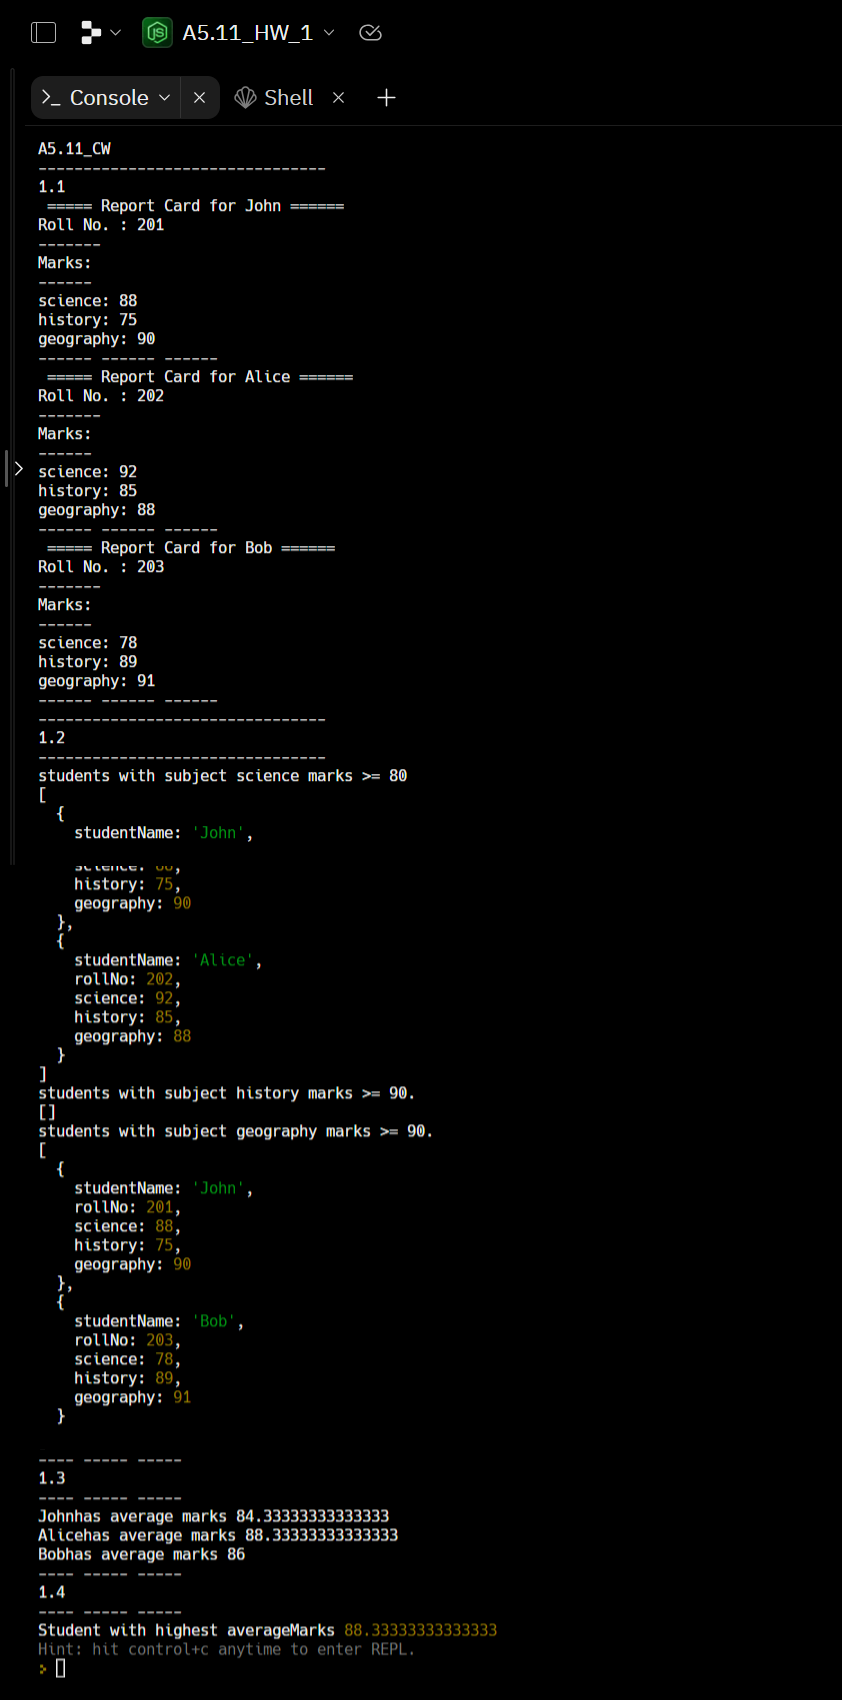
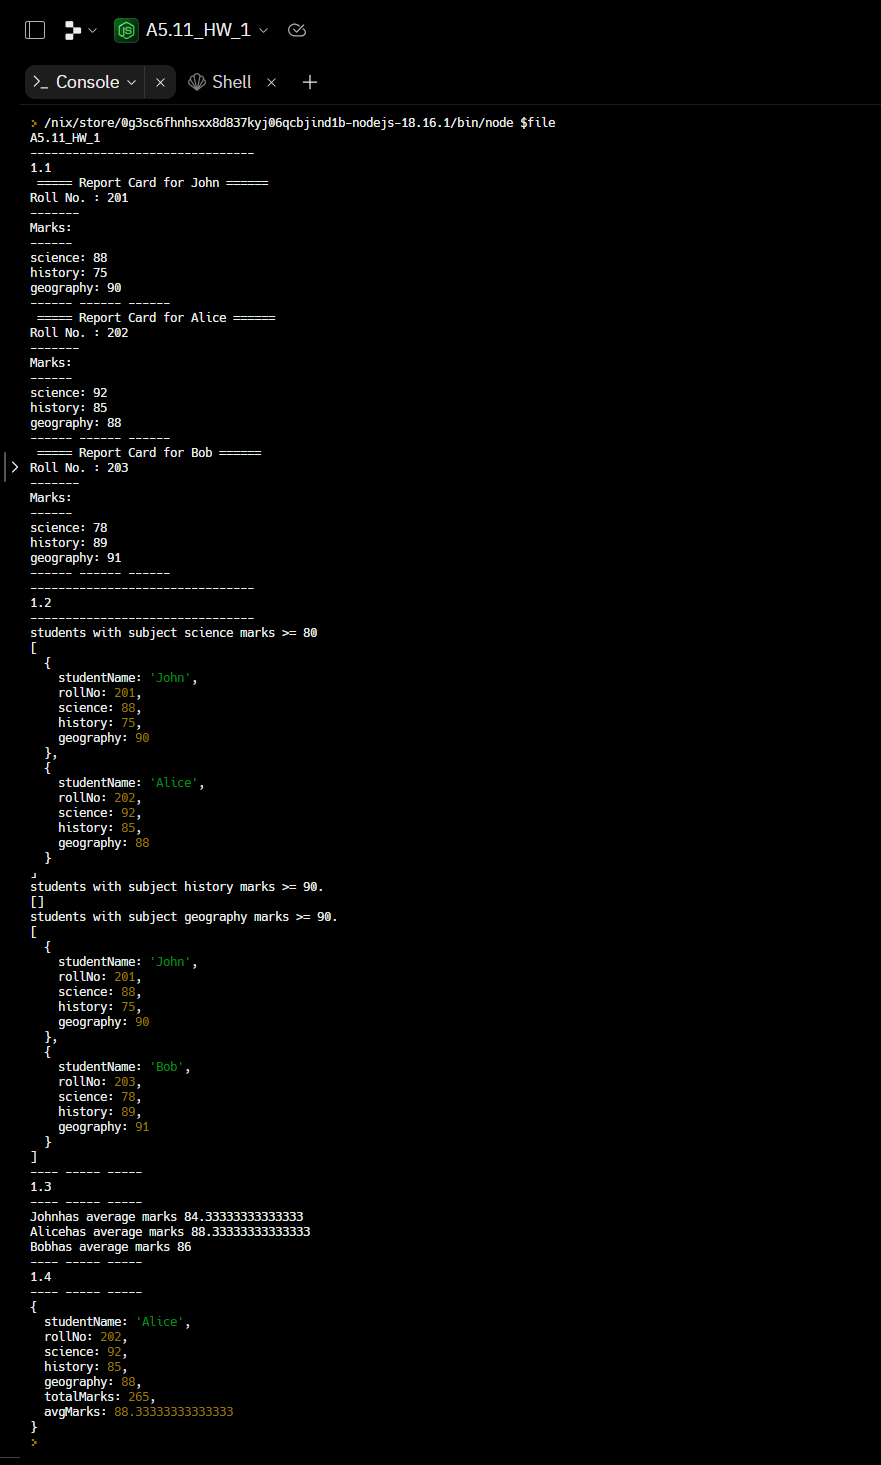
added 5.11_HW_2

diff --git a/04. Objects/Array , Object , Function/A5.11_HW_1.js b/04. Objects/Array , Object , Function/A5.11_HW_1.js
@@ -1,4 +1,4 @@
-console.log("A5.11_CW")
+console.log("A5.11_HW_1")
 console.log("--------------------------------")
 const studentData = [
   { studentName: "John", rollNo: 201, science: 88, history: 75, geography: 90 },
@@ -7,20 +7,20 @@ const studentData = [
 ];
 
 console.log("1.1 ")
-function printReportCard(rollNo){
+function printReportCard(rollNo) {
   let student = getReportByRollNo(rollNo)
   console.log(
-   " ===== Report Card for " + student.studentName + " ======\n" +
-"Roll No. : " + student.rollNo + "\n-------\nMarks:\n------\n" + 
-"science: " + student.science + "\n" +
-"history: " + student.history + "\n" + 
-"geography: " + student.geography + "\n------ ------ ------ "
+    " ===== Report Card for " + student.studentName + " ======\n" +
+    "Roll No. : " + student.rollNo + "\n-------\nMarks:\n------\n" +
+    "science: " + student.science + "\n" +
+    "history: " + student.history + "\n" +
+    "geography: " + student.geography + "\n------ ------ ------ "
   )
 }
 
-function getReportByRollNo(rollNo){
-  for(let i = 0; i < studentData.length; i++){
-    if(studentData[i].rollNo === rollNo ){
+function getReportByRollNo(rollNo) {
+  for (let i = 0; i < studentData.length; i++) {
+    if (studentData[i].rollNo === rollNo) {
       return studentData[i]
     }
   }
@@ -34,15 +34,15 @@ console.log("--------------------------------")
 console.log("1.2")
 console.log("--------------------------------")
 
-function getStudentsDataByCutoff(subjectName, cutOff){
+function getStudentsDataByCutoff(subjectName, cutOff) {
   let result = []
-  for(let i = 0; i < studentData.length; i++){
-    if(studentData[i][subjectName] >= cutOff){
+  for (let i = 0; i < studentData.length; i++) {
+    if (studentData[i][subjectName] >= cutOff) {
       result.push(studentData[i])
     }
   }
   return result
-  
+
 }
 console.log("students with subject science marks >= 80")
 console.log(getStudentsDataByCutoff("science", 80))
@@ -58,7 +58,7 @@ console.log("---- ----- ----- ")
 
 
 
-for (let i = 0; i < studentData.length; i++){
+for (let i = 0; i < studentData.length; i++) {
   let numOfSubjects = 3
   let totalMarks = studentData[i].science + studentData[i].history + studentData[i].geography
 
@@ -66,10 +66,10 @@ for (let i = 0; i < studentData.length; i++){
   studentData[i].avgMarks = studentData[i].totalMarks / numOfSubjects
 }
 
-function printStudentsAboveAverage(avgCutOff){
-  for(let i = 0; i < studentData.length; i++){
-    if(studentData[i].avgMarks > avgCutOff){
-      console.log(studentData[i].studentName + "has average marks "+ studentData[i].avgMarks)
+function printStudentsAboveAverage(avgCutOff) {
+  for (let i = 0; i < studentData.length; i++) {
+    if (studentData[i].avgMarks > avgCutOff) {
+      console.log(studentData[i].studentName + "has average marks " + studentData[i].avgMarks)
     }
   }
 }
@@ -79,18 +79,18 @@ console.log("---- ----- ----- ")
 console.log("1.4")
 console.log("---- ----- ----- ")
 
-function getHighestAverageMarks(data){
+function getHighestAverageMarks(data) {
   let highestAvgMarks = data[0].avgMarks;
-    for (let i = 0; i < data.length; i++) {
-          if (data[i].avgMarks > highestAvgMarks) {
+  for (let i = 0; i < data.length; i++) {
+    if (data[i].avgMarks > highestAvgMarks) {
 
-                  highestAvgMarks = data[i].avgMarks
-            
-            
-          }
-      
+      highestAvgMarks = data[i]
+
+
     }
-      return highestAvgMarks
+
+  }
+  return highestAvgMarks
 }
 
-console.log("Student with highest averageMarks",getHighestAverageMarks(studentData))
+console.log( getHighestAverageMarks(studentData))

diff --git a/04. Objects/Array , Object , Function/A5.11_HW_2.js b/04. Objects/Array , Object , Function/A5.11_HW_2.js
@@ -1,0 +1,127 @@
+console.log("A5.11_HW_2")
+console.log("--------------------------------")
+const productsData = [
+  {
+    id: 1,
+    productName: "Laptop",
+    price2021: 19999,
+    price2022: 18999,
+    price2023: 15090,
+    brand: "Dell",
+		productRating: 5
+  },
+  {
+    id: 2,
+    productName: "Smartphone",
+    price2021: 18999,
+    price2022: 17999,
+    price2023: 16999,
+    brand: "Samsung",
+		productRating: 4
+  },
+  {
+    id: 3,
+    productName: "Smartwatch",
+    price2021: 36999,
+    price2022: 32999,
+    price2023: 29999,
+    brand: "Apple", 
+		productRating: 4
+  }
+];
+
+console.log("1.1 ")
+
+function printProductDetailsCard(id){
+  let product = getProductDetailsCard(id)
+  console.log("===== Details Card for Laptop ======\n" +
+"ID : " + product.id + "\n------\nDetails:\n------\n" + 
+"Product Name: " + product.productName + "\n" +
+    "Price in 2021: " + product.price2021 + "\n" +
+    "Price in 2022: " + product.price2022 + "\n" +
+    "Price in 2023: " + product.price2023 + "\n" +
+    "Brand: " + product.brand + "\n" +
+    "Rating: " + product.productRating + "\n" +
+    "------ ------ ------"
+  
+  
+  )
+  
+}
+
+function  getProductDetailsCard(id){
+  for(let i  = 0; i < productsData.length; i++){
+    if(productsData[i].id === id){
+      return productsData[i]
+    }
+  }
+}
+printProductDetailsCard(1)
+printProductDetailsCard(2)
+printProductDetailsCard(3)
+
+
+console.log("--------------------------------")
+console.log("1.2")
+console.log("--------------------------------")
+
+function getyearPriceByminimumPrice(yearPrice, minimumPrice){
+  let result = []
+  for(let i = 0; i < productsData.length; i++){
+    if(productsData[i][yearPrice] >= minimumPrice){
+      result.push(productsData[i])
+    }
+  }
+  return result
+
+}
+console.log("Products with price in 2021 >= 25000")
+console.log(getyearPriceByminimumPrice("price2021", 25000))
+console.log("Products with price in 2023 >= 16000")
+console.log(getyearPriceByminimumPrice("price2023", 16000))
+
+console.log("---- ----- ----- ")
+console.log("1.3")
+console.log("---- ----- ----- ")
+
+for (let i = 0; i < productsData.length; i++){
+  let noOfprise = 3
+  let totalprice = productsData[i].price2021 + productsData[i].price2022 + productsData[i].price2023
+
+  productsData[i].totalprice = totalprice
+  productsData[i].avgPrice =  productsData[i].totalprice / noOfprise
+  
+}
+
+
+function cutoffavgPrice(avgCuttoff){
+for(let i = 0; i<productsData.length; i++ ){
+  if(productsData[i].avgPrice > avgCuttoff){
+    console.log("Average price of 3 years for " + productsData[i].productName + " is " +  productsData[i].avgPrice)
+  }
+}
+  
+}
+cutoffavgPrice(12000)
+
+console.log("---- ----- ----- ")
+console.log("1.4")
+console.log("---- ----- ----- ")
+
+// 1.4 Write a function to take the entire array as data and return the product object that has highest averagePrice.
+
+function getHighestAverageprice(data) {
+  let highestAvgpriceData = data[0].avgPrice;
+  for (let i = 0; i < data.length; i++) {
+    if (data[i].avgPrice > highestAvgpriceData) {
+
+      highestAvgpriceData = data[i]
+
+
+    }
+
+  }
+  return highestAvgpriceData
+}
+
+console.log(getHighestAverageprice(productsData))
